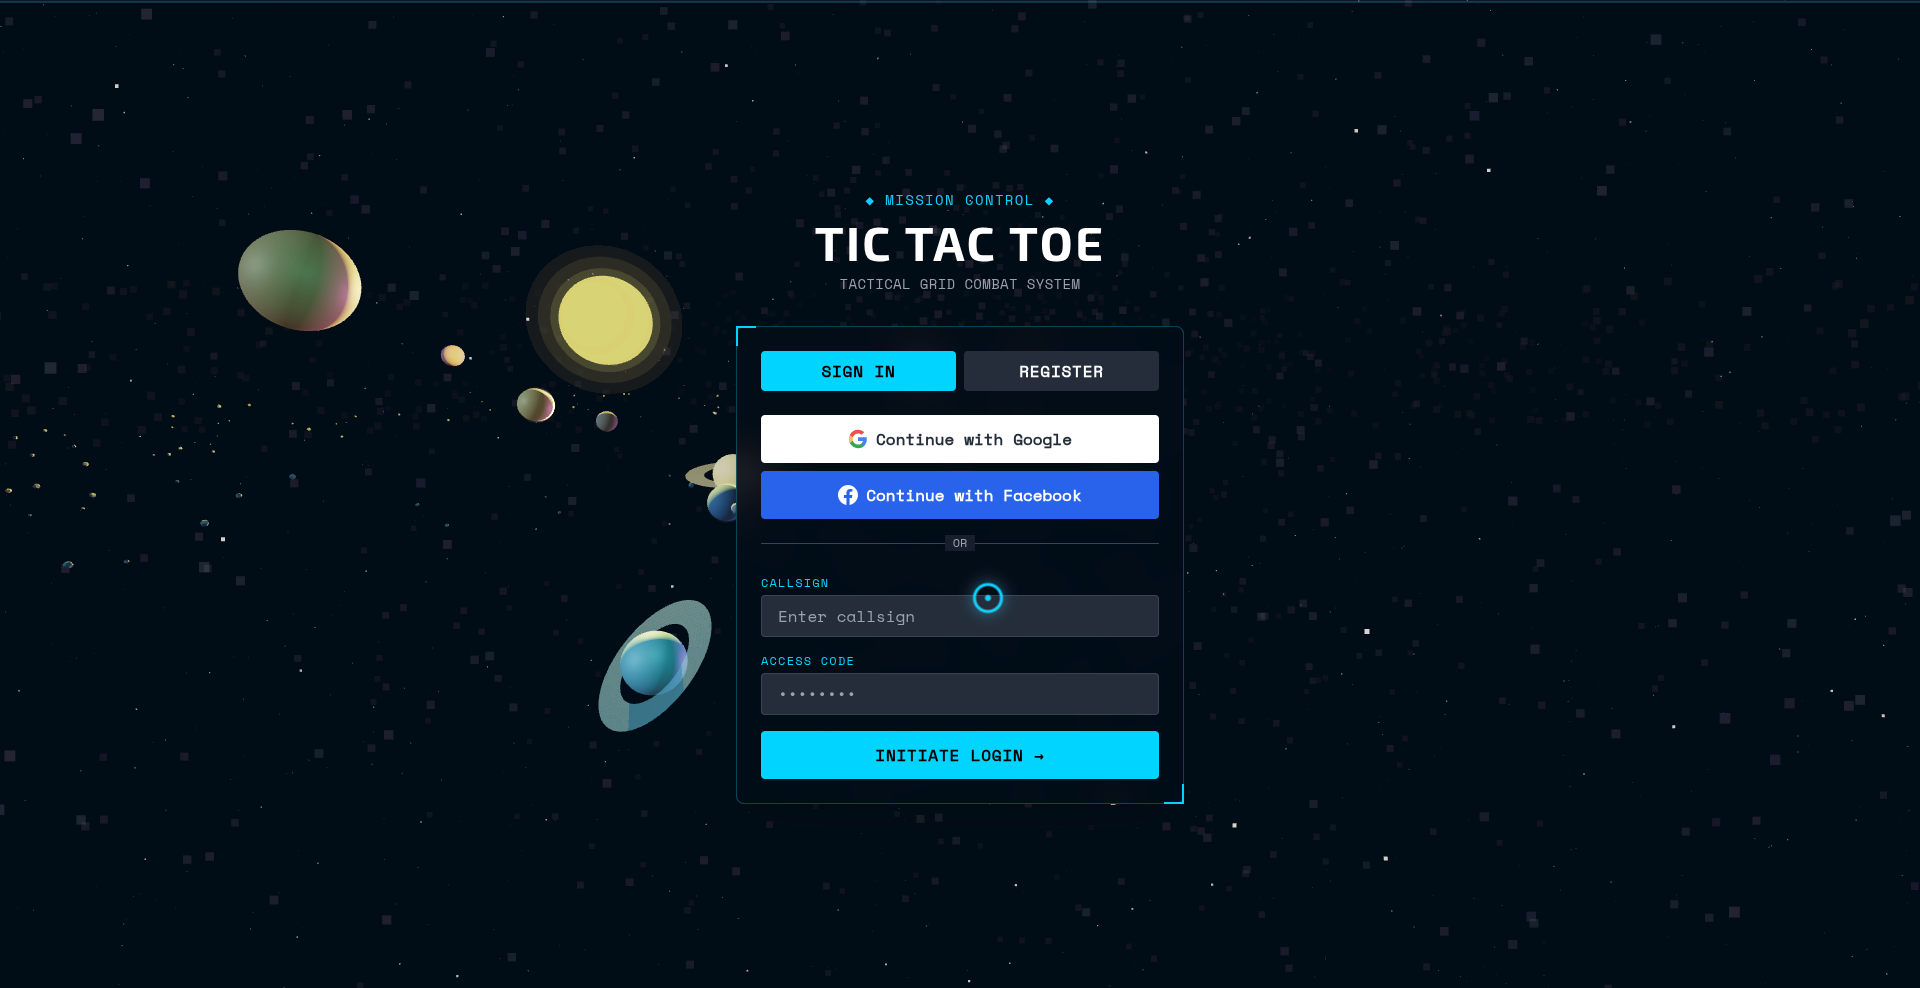
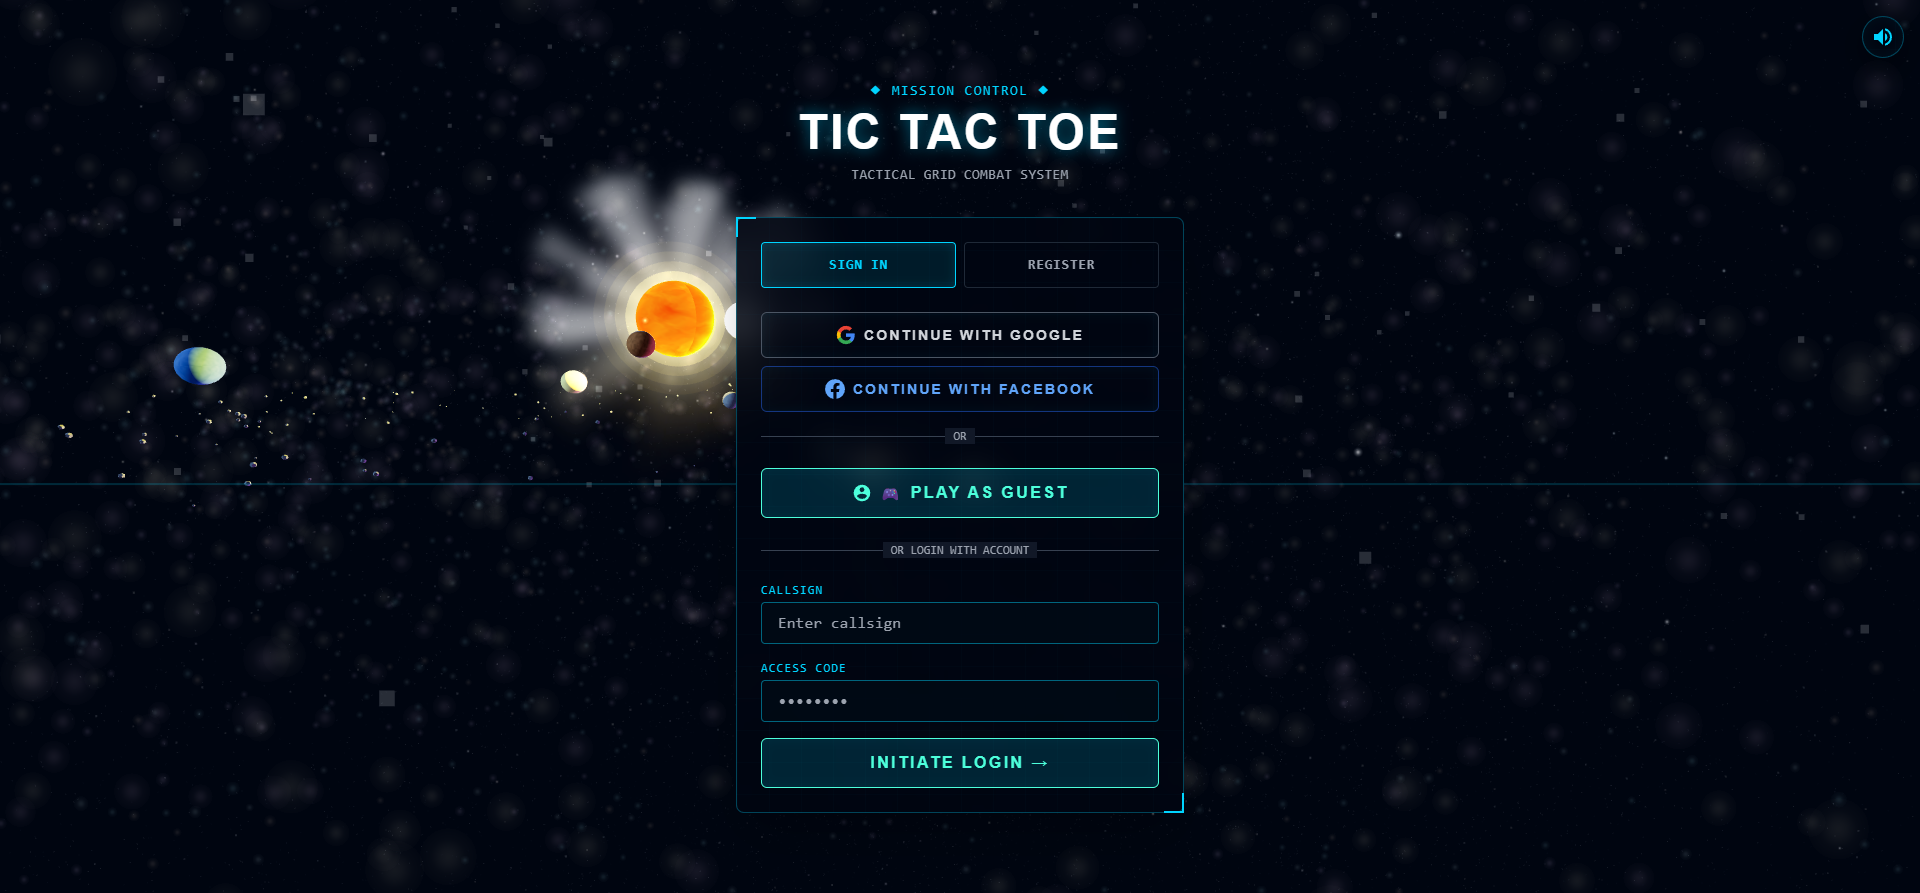
Enhance Space Explorer: cinematic organic corona ray shading, high-contrast dark space, updated high-res screenshots, and abstract secure environment variables

diff --git a/tictactoe/public/space-gallery-3d.js b/tictactoe/public/space-gallery-3d.js
@@ -650,36 +650,39 @@
 
     drawStarGlow() {
       const canvas = document.createElement('canvas');
-      canvas.width = 512; // High resolution for ultra-sharp, gorgeous volumetric rays
-      canvas.height = 512;
+      canvas.width = 256; // High performance, gorgeous feathered volumetric rays
+      canvas.height = 256;
       const ctx = canvas.getContext('2d');
-      const cx = 256;
-      const cy = 256;
+      const cx = 128;
+      const cy = 128;
       
       // 1. Soft radial base glow
-      const grad = ctx.createRadialGradient(cx, cy, 0, cx, cy, 256);
+      const grad = ctx.createRadialGradient(cx, cy, 0, cx, cy, 80);
       grad.addColorStop(0, 'rgba(255, 255, 255, 1.0)');
       grad.addColorStop(0.12, 'rgba(255, 245, 220, 0.95)');
-      grad.addColorStop(0.28, 'rgba(255, 180, 50, 0.45)');
-      grad.addColorStop(0.55, 'rgba(255, 100, 20, 0.12)');
+      grad.addColorStop(0.35, 'rgba(255, 175, 45, 0.45)');
+      grad.addColorStop(0.65, 'rgba(255, 80, 10, 0.12)');
       grad.addColorStop(1, 'rgba(255, 50, 0, 0.0)');
       ctx.fillStyle = grad;
-      ctx.fillRect(0, 0, 512, 512);
+      ctx.fillRect(0, 0, 256, 256);
+      
+      // Set a soft blur filter to make rays look cinematic and atmospheric
+      ctx.filter = 'blur(6px)';
       
       // 2. Volumetric Solar Rays (shafts of light extending dynamically)
-      const numRays = 48;
+      const numRays = 24;
       ctx.save();
       ctx.translate(cx, cy);
       
       for (let i = 0; i < numRays; i++) {
         const angle = (i / numRays) * Math.PI * 2 + Math.sin(i * 3.7) * 0.1;
-        const length = 120 + Math.abs(Math.sin(i * 12.3)) * 130;
-        const width = 0.02 + Math.abs(Math.cos(i * 7.4)) * 0.05; // sharp, wispy rays
+        const length = 45 + Math.abs(Math.sin(i * 12.3)) * 40;
+        const width = 0.15 + Math.abs(Math.cos(i * 7.4)) * 0.10; // feathered, wider sectors
         
         const rayGrad = ctx.createLinearGradient(0, 0, 0, length);
-        rayGrad.addColorStop(0, 'rgba(255, 255, 255, 0.55)');
-        rayGrad.addColorStop(0.15, 'rgba(255, 225, 120, 0.35)');
-        rayGrad.addColorStop(0.5, 'rgba(255, 120, 30, 0.12)');
+        rayGrad.addColorStop(0, 'rgba(255, 255, 255, 0.40)');
+        rayGrad.addColorStop(0.2, 'rgba(255, 215, 100, 0.25)');
+        rayGrad.addColorStop(0.6, 'rgba(255, 100, 20, 0.08)');
         rayGrad.addColorStop(1, 'rgba(255, 50, 0, 0.0)');
         
         ctx.fillStyle = rayGrad;
@@ -810,7 +813,7 @@
       
       // Scene
       this.scene = new THREE.Scene();
-      this.scene.fog = new THREE.FogExp2(0x000208, 0.0008);
+      this.scene.fog = new THREE.FogExp2(0x000208, 0.0003);
       
       // Weather system
       this.weatherParticles = null;
@@ -1269,7 +1272,8 @@
             blending: THREE.AdditiveBlending
           });
           const glow = new THREE.Sprite(glowMaterial);
-          glow.scale.set(data.radius * 3.8, data.radius * 3.8, 1);
+          glow.scale.set(data.radius * 2.2, data.radius * 2.2, 1);
+          glow.name = 'sunCoronaRay';
           sun.add(glow);
         } else {
           const geometry = new THREE.SphereGeometry(data.radius, 48, 48);
@@ -2066,6 +2070,18 @@
           obj.rotation.y += 0.005;
           if (obj.userData.clouds) {
             obj.userData.clouds.rotation.y += 0.007;
+          }
+        }
+
+        // Animate space explorer Sun's corona organically matching the backdrop
+        if (obj.userData.name === 'Sun') {
+          const sunCoronaRay = obj.getObjectByName('sunCoronaRay');
+          if (sunCoronaRay) {
+            const currentTime = performance.now();
+            const rayPulse = 1.0 + Math.sin(currentTime * 0.0015) * 0.05;
+            sunCoronaRay.scale.set(obj.userData.radius * 2.2 * rayPulse, obj.userData.radius * 2.2 * rayPulse, 1);
+            sunCoronaRay.material.rotation = Math.sin(currentTime * 0.0002) * 0.08;
+            sunCoronaRay.material.opacity = 0.8 + Math.cos(currentTime * 0.0007) * 0.12;
           }
         }
       });

diff --git a/README.md b/README.md
@@ -26,6 +26,22 @@
 
 ---
 
+## 🌌 Visual Tour
+
+Here is a visual showcase of the premium, celestial interface you will experience in **Tic Tac Toe - Mission Control**:
+
+| 👤 Authentication Portal | 🚀 Active Mission Control |
+|:---:|:---:|
+| ![Authentication Portal](screenshots/auth-screen.png) | ![Active Mission Control](screenshots/game-board.png) |
+| *Log in as an authorized operator or tap Guest Play to launch instantly into space.* | *Interact with zero input latency upon pointer contact under a tight volumetric solar corona.* |
+
+| 🌌 Celestial Space Explorer | 🏆 Standoff & Victory Telemetry |
+|:---:|:---:|
+| ![Celestial Space Explorer](screenshots/space-explorer.png) | ![Victory Telemetry](screenshots/victory-share.png) |
+| *Embark on a real-time, interactive tour of the Solar System, stars, constellations, and gaseous nebulae.* | *Achieve victory to view dynamic telemetry, score updates, and engaging space facts.* |
+
+---
+
 ## 🛠 Technology Stack
 
 * **Frontend**: Alpine.js, Tailwind CSS, Three.js (WebGL 3D Space Gallery)
@@ -37,7 +53,13 @@
 
 ## 📦 Environment Variables
 
-To run the application locally or in production, configure the following variables:
+> [!CAUTION]
+> ### 🛡 Critical Security Warning for Public Repositories
+> Since this repository is public, **NEVER** hardcode or commit actual credentials, passwords, or secrets (such as your private MongoDB Atlas connection strings or API keys) directly inside your codebase or documentation.
+> - **Local Development**: Keep all credentials confined inside a local `.env` file. This file is safely listed in `.gitignore` and will never be pushed to your public GitHub repository.
+> - **Production Deployment**: Inject your actual secret keys dynamically via your hosting provider's dashboard (e.g. Render Dashboard under environment variables, or Cloudflare Pages secrets).
+
+To run the application locally or in production, configure the following variables inside your private `.env` file:
 
 | Variable | Description | Default / Fallback |
 |---|---|---|

diff --git a/tictactoe/README.md b/tictactoe/README.md
@@ -20,6 +20,12 @@ Redis and RabbitMQ are optional — the server falls back to in-memory sessions 
 
 ## Environment Variables
 
+> [!CAUTION]
+> ### 🛡 Critical Security Warning for Public Repositories
+> Since this repository is public, **NEVER** hardcode or commit actual credentials, passwords, or secrets (such as your private MongoDB Atlas connection strings or API keys) directly inside your codebase or documentation.
+> - **Local Development**: Keep all credentials confined inside a local `.env` file. This file is safely listed in `.gitignore` and will never be pushed to your public GitHub repository.
+> - **Production Deployment**: Inject your actual secret keys dynamically via your hosting provider's dashboard.
+
 | Variable | Required | Description |
 |---|---|---|
 | `MONGODB_URI` | No | MongoDB connection string. Falls back to `data/users.json` |
@@ -56,6 +62,20 @@ Requires `REDIS_URL` so sessions are shared across instances.
 - **Chat** — in-room chat with emotes
 - **Blitz mode** — 60-second timed games
 - **Educational mode** — space facts between moves
+
+## Visual Tour
+
+Here is a visual showcase of the premium, celestial interface you will experience in **Tic Tac Toe - Mission Control**:
+
+| 👤 Authentication Portal | 🚀 Active Mission Control |
+|:---:|:---:|
+| ![Authentication Portal](../screenshots/auth-screen.png) | ![Active Mission Control](../screenshots/game-board.png) |
+| *Log in as an authorized operator or tap Guest Play to launch instantly into space.* | *Interact with zero input latency upon pointer contact under a tight volumetric solar corona.* |
+
+| 🌌 Celestial Space Explorer | 🏆 Standoff & Victory Telemetry |
+|:---:|:---:|
+| ![Celestial Space Explorer](../screenshots/space-explorer.png) | ![Victory Telemetry](../screenshots/victory-share.png) |
+| *Embark on a real-time, interactive tour of the Solar System, stars, constellations, and gaseous nebulae.* | *Achieve victory to view dynamic telemetry, score updates, and engaging space facts.* |
 
 ## Architecture
 
